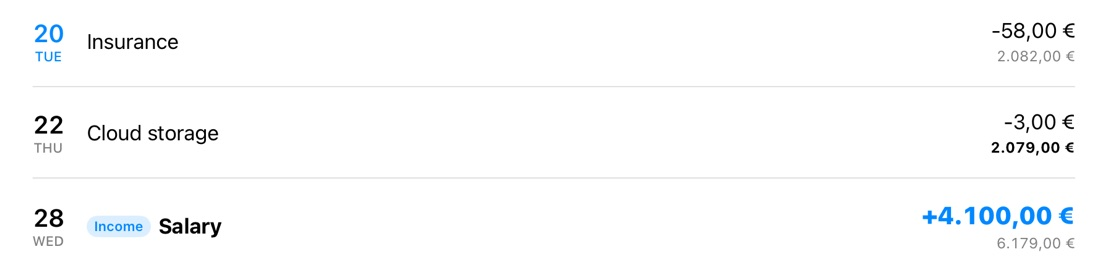
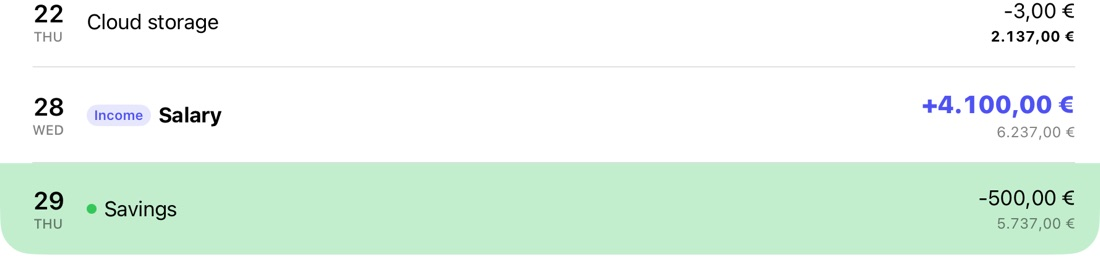
Match the app's new indigo accent and refresh screenshots

diff --git a/styles.css b/styles.css
@@ -7,12 +7,12 @@
   --muted: #6e6e73;
   --rule: #e3e3e8;
   --frame: #f5f5f7;
-  --accent: #007aff;
+  --accent: #4f52f2;
   --warn: #ff9500;
   --bad: #ff3b30;
 }
 @media (prefers-color-scheme: dark) {
-  :root { --paper: #000000; --ink: #f5f5f7; --muted: #98989d; --rule: #2c2c2e; --frame: #1c1c1e; --accent: #0a84ff; --warn: #ff9f0a; --bad: #ff453a; color-scheme: dark; }
+  :root { --paper: #000000; --ink: #f5f5f7; --muted: #98989d; --rule: #2c2c2e; --frame: #1c1c1e; --accent: #7c80ff; --warn: #ff9f0a; --bad: #ff453a; color-scheme: dark; }
 }
 
 * { box-sizing: border-box; }
